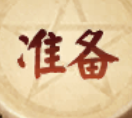
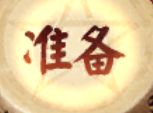
新模式，清理低星鬼王

diff --git a/gui_main.py b/gui_main.py
@@ -175,8 +175,8 @@ class GameBotGUI:
         button = tk.Button(parent, text=text, command=command, bg=bg, fg=fg,
                            activebackground=bg, activeforeground=fg,
                            relief=tk.FLAT, bd=0, cursor="hand2",
-                           font=("微软雅黑", 10, "bold"), width=width,
-                           padx=8, pady=8)
+                           font=("微软雅黑", 9, "bold"), width=width,
+                           padx=5, pady=5)
         button.grid(row=row, column=column, columnspan=colspan,
                     padx=5, pady=5, sticky="ew")
         return button
@@ -334,6 +334,27 @@ class GameBotGUI:
         limits.columnconfigure(0, weight=1)
         limits.columnconfigure(2, weight=1)
 
+        self.btn_frame = tk.Frame(settings, bg="#FFFFFF")
+        self.btn_frame.pack(fill=tk.X, padx=13, pady=(0, 13))
+        self.combat_btn = self._button(self.btn_frame, "结界突破", self.start_combat_option,
+                                       bg="#0A84FF", width=12, row=0, column=0)
+        self.hard28_btn = self._button(self.btn_frame, "困难二十八", self.start_hard_28,
+                                       bg="#5E5CE6", width=12, row=0, column=1)
+        self.draw_roll_btn = self._button(self.btn_frame, "绘卷模式", self.start_draw_roll,
+                                          bg="#AF52DE", width=12, row=0, column=2)
+        self.draw_roll2_btn = self._button(self.btn_frame, "绘卷模式 2", self.start_draw_roll2,
+                                           bg="#AF52DE", width=12, row=1, column=0)
+        self.combat8_btn = self._button(self.btn_frame, "阴阳寮突破", self.start_combat_option_8,
+                                        bg="#5856D6", width=12, row=1, column=1)
+        self.arena_btn = self._button(self.btn_frame, "斗技", self.start_arena,
+                                      bg="#FF2D55", width=12, row=1, column=2)
+        self.super_ghost_btn = self._button(
+            self.btn_frame, "超鬼王低星", self.start_super_ghost,
+            bg="#FF375F", width=12, row=2, column=0, colspan=3)
+        self.btn_frame.columnconfigure(0, weight=1)
+        self.btn_frame.columnconfigure(1, weight=1)
+        self.btn_frame.columnconfigure(2, weight=1)
+
         monitor = self._card(right, "运行监控", "LIVE STATUS")
         stats = tk.Frame(monitor, bg="#FFFFFF")
         stats.pack(fill=tk.X, padx=13, pady=(0, 13))
@@ -343,31 +364,19 @@ class GameBotGUI:
         for label in (self.count_label, self.roll_label, self.menpiao_label):
             label.pack(side=tk.LEFT, expand=True, fill=tk.X, padx=5, pady=12)
 
-        self.btn_frame = tk.Frame(monitor, bg="#FFFFFF")
-        self.btn_frame.pack(fill=tk.X, padx=13, pady=(0, 13))
-        self.start_btn = self._button(self.btn_frame, "▶  开始挂机", self.start_task,
+        action_frame = tk.Frame(monitor, bg="#FFFFFF")
+        action_frame.pack(fill=tk.X, padx=13, pady=(0, 13))
+        self.start_btn = self._button(action_frame, "▶  开始挂机", self.start_task,
                                       bg="#34C759", fg="#FFFFFF", width=12, row=0, column=0)
-        self.stop_btn = self._button(self.btn_frame, "■  停止运行", self.stop_task,
+        self.stop_btn = self._button(action_frame, "■  停止运行", self.stop_task,
                                      bg="#FF3B30", fg="#FFFFFF", width=12, row=0, column=1)
         self.stop_btn.config(state=tk.DISABLED)
-        self.combat_btn = self._button(self.btn_frame, "结界突破", self.start_combat_option,
-                                       bg="#0A84FF", width=12, row=1, column=0)
-        self.hard28_btn = self._button(self.btn_frame, "困难二十八", self.start_hard_28,
-                                       bg="#5E5CE6", width=12, row=1, column=1)
-        self.draw_roll_btn = self._button(self.btn_frame, "绘卷模式", self.start_draw_roll,
-                                          bg="#AF52DE", width=2, row=2, column=0)
-        self.draw_roll2_btn = self._button(self.btn_frame, "绘卷模式 2", self.start_draw_roll2,
-                                           bg="#AF52DE", width=2, row=2, column=1)
-        self.combat8_btn = self._button(self.btn_frame, "阴阳寮突破", self.start_combat_option_8,
-                                        bg="#5856D6", width=2, row=3, column=0)
-        self.arena_btn = self._button(self.btn_frame, "斗技", self.start_arena,
-                                      bg="#FF2D55", width=2, row=3, column=1)
-        self.zudui_btn = self._button(self.btn_frame, "组队", self.start_zudui,
-                                      bg="#FF9500", width=2, row=4, column=0)
-        self.bezudui_btn = self._button(self.btn_frame, "被组队", self.start_bezudui,
-                                        bg="#8E8E93", width=2, row=4, column=1)
-        self.btn_frame.columnconfigure(0, weight=1)
-        self.btn_frame.columnconfigure(1, weight=1)
+        action_frame.columnconfigure(0, weight=1)
+        action_frame.columnconfigure(1, weight=1)
+        self.zudui_btn = self._button(action_frame, "组队", self.start_zudui,
+                                      bg="#FF9500", width=12, row=1, column=0)
+        self.bezudui_btn = self._button(action_frame, "被组队", self.start_bezudui,
+                                        bg="#8E8E93", width=12, row=1, column=1)
 
         log_card = tk.Frame(right, bg="#FFFFFF", highlightbackground="#E5E5EA",
                             highlightthickness=1, bd=0)
@@ -1264,6 +1273,107 @@ class GameBotGUI:
             time.sleep(1)
 
         return False
+
+    def run_super_ghost_low_star(self, conf_val):
+        """执行一轮超鬼王低星流程：发现鬼王、准备战斗、等待结算。"""
+        if not self.is_running:
+            return False
+
+        self.log("等待超鬼王入口...")
+        if not self.wait_for_image(
+                get_path("find.png"), timeout=10,
+                confidence=conf_val, do_tap=True):
+            self.log("未找到 find.png，检测是否已经召唤鬼王")
+
+        if not self.wait_for_image(
+                get_path("chao.png"), timeout=30,
+                confidence=conf_val, do_tap=True):
+            self.log("未找到 chao.png，超鬼王本轮未开始")
+            return False
+
+        self.log("已进入超鬼王挑战，等待准备按钮...")
+        if not self.wait_for_image(
+                get_path("prepare.png"), timeout=30,
+                confidence=conf_val, do_tap=True):
+            self.log("未找到 prepare.png，超鬼王本轮未开始")
+            return False
+
+        finish_imgs = [
+            get_path("finish_mark.png"),
+            get_path("finish_mark_sp.png"),
+            get_path("finish_mark_sp_2.png"),
+        ]
+        finish_detected = False
+        matched_finish_img = None
+        finish_start_t = time.time()
+        self.log("已进入战斗，等待超鬼王结算...")
+
+        while self.is_running and time.time() - finish_start_t < 200:
+            if self.check_total_time_limit():
+                return False
+
+            for finish_img in finish_imgs:
+                if self.find_and_tap(
+                        finish_img, confidence=conf_val, do_tap=False):
+                    matched_finish_img = finish_img
+                    finish_detected = True
+                    break
+
+            if finish_detected:
+                time.sleep(0.5)
+                self.find_and_tap(
+                    matched_finish_img, confidence=conf_val, do_tap=True)
+                break
+
+            time.sleep(1)
+
+        if not finish_detected:
+            self.log("超鬼王战斗等待结算超时")
+            return False
+
+        self.count += 1
+        self.count_label.config(text=f"{self.count} 轮")
+        self.log(f"超鬼王低星第 {self.count} 轮完成")
+        return True
+
+    def super_ghost_logic(self):
+        self.log("=== 超鬼王低星开始运行 ===")
+        conf_val = self.conf_slider.get()
+
+        try:
+            target_limit = int(self.limit_var.get())
+        except ValueError:
+            target_limit = 0
+            self.log("目标轮数格式错误，已默认为无限模式")
+
+        while self.is_running:
+            if self.check_total_time_limit():
+                break
+            if target_limit > 0 and self.count >= target_limit:
+                self.log(f"已达到目标轮数 {target_limit}，脚本自动停止")
+                break
+            if not self.run_super_ghost_low_star(conf_val):
+                break
+
+        self.log("超鬼王低星流程结束")
+        self.is_running = False
+        self.start_btn.config(state=tk.NORMAL)
+        self.stop_btn.config(state=tk.DISABLED)
+
+    def start_super_ghost(self):
+        if not self.device_var.get():
+            messagebox.showwarning("警告", "请先选择一个设备！")
+            return
+
+        self.update_screen_size()
+        self.count = 0
+        self.start_total_time_control()
+        self.count_label.config(text="0 轮")
+        self.is_running = True
+        self.start_btn.config(state=tk.DISABLED)
+        self.stop_btn.config(state=tk.NORMAL)
+        threading.Thread(
+            target=self.super_ghost_logic, daemon=True).start()
     
     def run_dungeon_random(self, selected_level_name, current_start_img, conf_val):
         """执行绘卷副本模式，成功完成后返回 True。"""
